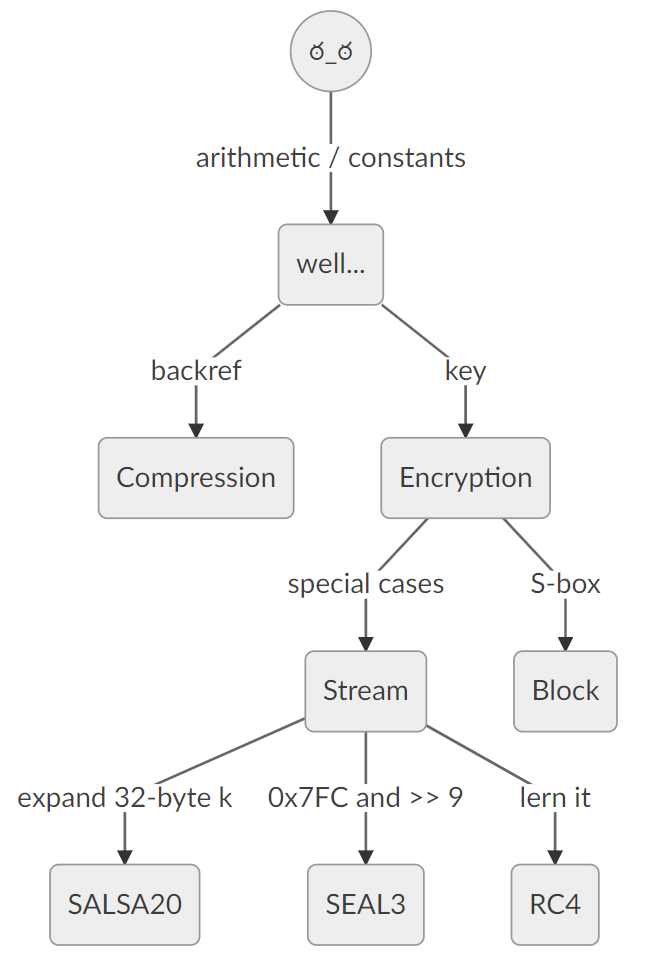
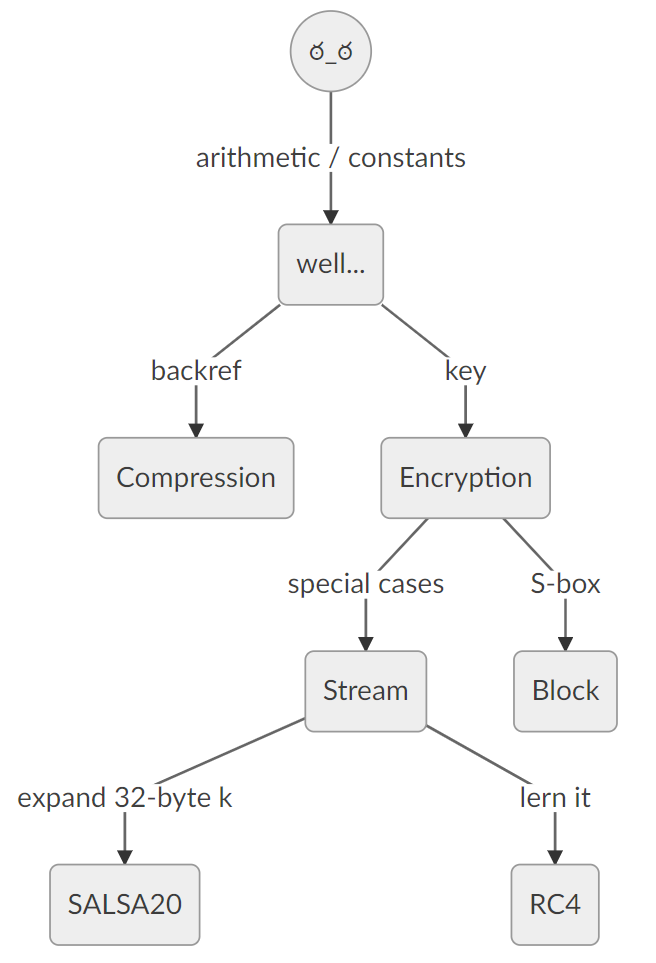
expands algorithm identification section

diff --git a/lecture-notes/reversing-class.md b/lecture-notes/reversing-class.md
@@ -404,15 +404,15 @@ Note particularly the 5th line where `decompressed[-local_18]` is a backwards re
 
 If you can identify something that looks like an encryption key, you should lean towards identifying the routine as cryptographic. For example, this is the case if two buffers are passed to the function, one with a lot of data, and one with way less. As noted above, keys may also be hard-coded or generated inside what is indeed a decryption routine.
 
-Now if we are operating under the assumption that the code is cryptographic in nature, there's a chance that you are dealing with assymetric ciphers such as RSA or ECC. In that case you'll have to do some learning, because we won't cover it here. More frequent are symmetric _block_ and _stream_ ciphers. We are trying to give a practical guide here, so bear with us - none of what we explain is theoretically complete or even sound. But it will work. We will talk about identification of block ciphers later, there is a very reliable method of identifying them. As far as stream ciphers go, identification is a little bit more tricky. We will give you techniques for the three ciphers we see most often:
+Now if we are operating under the assumption that the code is cryptographic in nature, there's a chance that you are dealing with assymetric ciphers such as RSA or ECC. In that case you'll have to do some learning, because we won't cover it here. More frequent are symmetric _block_ and _stream_ ciphers. We are trying to give a practical guide here, so bear with us - none of what we explain is theoretically complete or even sound. But it will work. 
 
-| Cipher      | Telltale                                |
-|:------------|:----------------------------------------|
-| RC4         | will be explained below                 |
-| [SALSA20][] | the constant string `expand 32-byte k`  |
-| [SEAL3][]   | `0x7FC` and shifts to the right by `9`  |
+## Block Cipher Identification
 
-Let's get RC4 out of the way. There is no particularly remarkable constant that will give it away, but you will learn to recognize the algorithm if you have seen it several times. We will study an example here so you are off to a good start with that. The following is a barely annotated Ghidra output for an RC4 implementation:
+Pretty much every block cipher uses characteristic constants, because they (better) contain a nonlinear component. This part of the algorithm is usually implemented as a substitution box (S-box). Moreover, this S-box is usually a large lookup array of precomputed numbers. Find them, and you win: Take the first few of them and google their hex representation.
+
+## Stream Cipher Identification
+
+As far as stream ciphers go, identification is a little bit more tricky. There are two ciphers that we encounter most often. The first is RC4, the second is [SALSA20][]. The latter can be easily identified by the existence of the string constant `expand 32-byte k` which is part of the initial state of the cipher. Identifying RC4 is also fairly straightforward. There is no particularly remarkable constant that will give it away, but you will learn to recognize the algorithm if you have seen it several times. We will study an example here so you are off to a good start with that. The following is a barely annotated Ghidra output for an RC4 implementation:
 ```c++
 uVar6 = 0;
 uVar8 = 0;
@@ -461,9 +461,33 @@ This is the first phase of the RC4 key scheduling part. Secondly, during the act
 ```
 To be precise, the key schedule array is now being used in a very particular way: The element `local_100[uVar7]` from the array is used as an offset for indexing the same array again. Also, there's an XOR right somewhere near this.
 
-## Block Cipher Identification
+## Identifying Unicorn Algorithms
 
-Pretty much every block cipher uses characteristic constants, because they (better) contain a nonlinear component. This part of the algorithm is usually implemented as a substitution box (S-box). Moreover, this S-box is usually a large lookup array of precomputed numbers. Find them, and you win: Take the first few of them and google their hex representation.
+Every now and then, you may come across an algorithm that is not covered by what we explained so far. Such an algorithm is likely compression or a stream cipher because block ciphers are so easy to identify based on their SBox constants. This is the difficult case. We recommend the following approach:
+
+1. Reverse engineer the algorithm a little bit.
+2. Formulate an aspect of the algorithm as it might occur in a paper or reference implementation.
+3. Search the internet for various possible formulations.
+4. If you have not succeeded, go back to step 1 or 2.
+
+In order to be efficient during this process, it is important to scope and perpetually scale your efforts in the first step. We recommend the following escalation protocol:
+
+1. Identify remarkable integer constants.
+2. Identify remarkable sequences of arithmetic operations (shifts, rotations, modulo, and/or/not/xor, etc).
+3. Start reverse engineering the first steps of the algorithm until have identified what could be construed as a step in an algorithm.
+4. Do step 3 a few more times (also, do step 1 and 2 a few more times).
+5. Reverse engineer the whole thing.
+6. Give up and re-implement the algorithm from your notes.
+
+Keep in mind that the algorithm you are looking at could be the modification of a standard algorithm. For example, it is not unheard of that RC4 implementations use a key schedule array with more than 256 entries. Similarly, a crafty adversary might use [SALSA20][] but replace the state initialization constant `expand 32-byte k` by 16 random bytes. Unfortunately, in these cases, identification works almost exactly as for any other unicorn.
+
+As an example, we recommend to identify the algorithm used to decode the payload of the loader with the following SHA-256 hash:
+```
[1 lines of base64/hex data omitted]
+```
+It is not a modified algorithm, but it is not a common one.
+
+## Conclusion
 
 The following is a short flowchart summary of what we learned:
 
@@ -471,7 +495,7 @@ The following is a short flowchart summary of what we learned:
 
 # Ghidra Scripting
 
-There comes a day in the life of every reverse engineer when they wish they could automate something. Luckily, you can. Im Ghidra, you automate things by writing Ghidra scripts. We recommend that you write them in Java, because Ghida Scripting integrates with the Eclipse IDE. Having an IDE is so much better than not having an IDE, especially when you are facing a true blood Java API. It gives you auto-completion and inline documentation. Look, this is no time for false pride. Just use Java.
+There comes a day in the life of every reverse engineer when they wish they could automate something. Luckily, you can. Im Ghidra, you automate things by writing Ghidra scripts. We recommend that you write them in Java, because Ghidra Scripting integrates with the Eclipse IDE. Having an IDE is so much better than not having an IDE, especially when you are facing a true blood Java API. It gives you auto-completion and inline documentation. Look, this is no time for false pride. Just use Java.
 
 For this section, recall the sample with SHA-256 hash
 ```
@@ -677,6 +701,95 @@ To summarize, API tracing is a source of very detailed information, but it is ra
 
 > TODO: Example & Exercise
 
+## Unpacking
+
+Another important use case of dynamic analysis is unpacking. Since the payload of a packer will usually be in memory at _some_ point, we _only_ have to debug the packer and add a breakpoint at _just_ the right time. That is obviously not entirely trivial, so we will discuss some heuristics for getting there. The required tools for our VM are the following:
+
+- The [x64dbg][] debugger, with the [OllyDumpEx][] plugin
+- The [PEBear][] tool to repair broken/corrupt PE files.
+- A good hexeditor is always nice. If you have any self respect, pay some money and get the [010 Editor][], otherwise there are a number of free alternatives such as [HxD][] and [wxHexEditor][].
+- Although we will not discuss .NET, we recommend the [MegaDumper][] if you ever have to.
+
+
+
+
+How to dynamic analysis without ASM:
+- Only breakpoints on Win32 API calls #yolo
+- Know EAX and run to return
+
+Maybe mention Unpac.me and other services
+(emphasis on _MENTION_)
+
+
+
+
+GOWLZ:
+- Windows PE file layout on disk vs. in memory
+- Memory layout for Windows processes
+- Different types of breakpoints
+- API routines that are commonly utilized by packers
+- Different types of packers
+  - Droppers
+  - Loaders with different injection methods:
+    - remote injection
+    - local injection
+    - hollowing
+- Low level API calls versus high level API calls
+
+
+
+
+- Tools
+  - OllyDumpEx
+  - Process Hacker
+  - ProcMon
+  - x64dbg
+
+- Identify packers:
+  - no meaningful strings
+  - high entropy
+  - not many imports
+  - behavior shows injection
+  - behavior shows heavy CPU load, then recedes
+  - watchdog pattern
+  - peid
+  - fail at static analysis
+- look at princess locker  
+  ```
[1 lines of base64/hex data omitted]
+  ```
+  - execute and observe with procmon
+  - oh shit ransomware
+  - BP: FindFirstFileW 
+  - BP: VirtualAlloc 
+  - Dump mapped section that looks like PE
+  - Overwrite PE header with packed sample's header
+  - fix sections (VirtualAddress → PhysicalAddress, VirtualSize max)
+  - Fix alignment
+  - Reverse with Ghidra, bottom up, WSAStartup
+  - String deobfu, 0x6C
+  - Boom C2
+- Look at signed TrickBot packer
+  - Wait until it injects into svchost
+  - Use big-suspender.c to suspend the spawned process as it emerges
+  - Attach debugger, set execution breakpoint on the obviously injected code
+  - WATE
+  - DUMP
+  - Step to the same spot in the dumped binary
+
+
+Dumping
+Breakpoint auf String Decrypt
+Verhalten beobachten
+procmon
+process hacker
+fakenet
+api tracing
+dumping kontrolliert (breakpoint auf ResumeThread)
+dumping irgendwann einfach attachen
+
+
+
 
 
 
@@ -693,6 +806,7 @@ To summarize, API tracing is a source of very detailed information, but it is ra
 [ReactOS]: https://reactos.org/
 [PECheat]: http://www.openrce.org/reference_library/files/reference/PE%20Format.pdf
 [SEAL3]: https://web.cs.ucdavis.edu/~rogaway/papers/seal.pdf
+[HC128]: https://www.ecrypt.eu.org/stream/e2-hc128.html
 [SALSA20]: https://cr.yp.to/snuffle.html
 [Process Hacker]: https://processhacker.sourceforge.io/
 [Sysinternals Suite]: https://docs.microsoft.com/en-us/sysinternals/downloads/sysinternals-suite

diff --git a/lecture-notes/algorithm-identification.md b/lecture-notes/algorithm-identification.md
@@ -5,7 +5,6 @@ A  -- backref --> C(Compression)
 A -- key --> Crypto(Encryption)
 Crypto -- special cases --> D(Stream)
 D -- expand 32-byte k --> SALSA(SALSA20)
-D -- 0x7FC and >> 9 --> SEAL(SEAL3)
 D -- lern it --> RC4(RC4)
 Crypto -- S-box --> E(Block)
 ```
